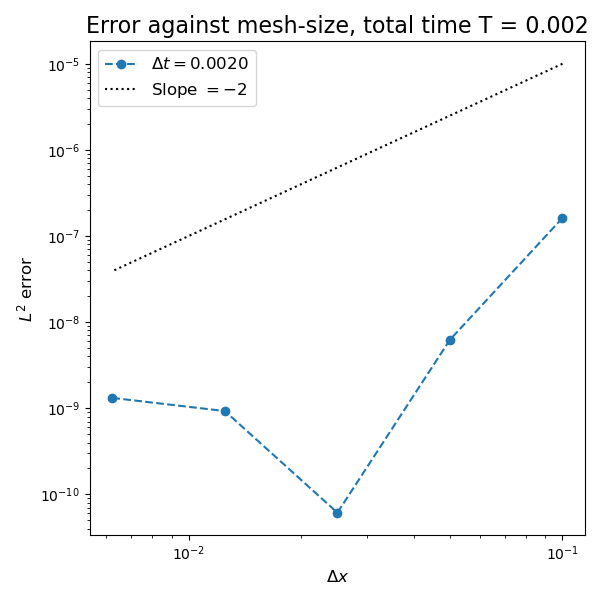
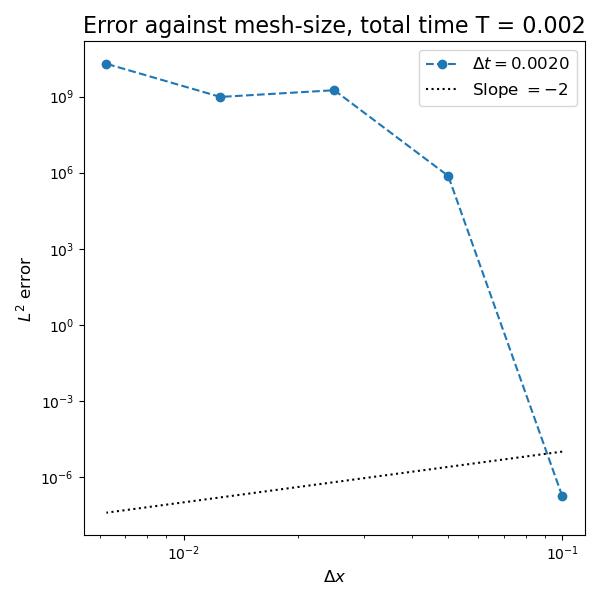
more plots

diff --git a/AI4Flood/richards_functions.py b/AI4Flood/richards_functions.py
@@ -229,11 +229,10 @@ class AIRichards(nn.Module):
 
         return ujplus, i 
     '''
-    '''
     def forward(self, uold, t, dt, imax=100):
         """Here we use a Jacobi iteration with an L method to solve richard's equation."""
-        L = 2 # lipschitz constant for L method
-        omega = 0.2 # damping parameter
+        L = 4 # lipschitz constant for L method
+        omega = 0.1 # damping parameter
         #uuold   = dirichlet_boundary_condition(uold, u_exact(self.x, self.y, t)) # apply dirichlet bc to u^n-1
 
         uj = uold.clone()
@@ -258,9 +257,11 @@ class AIRichards(nn.Module):
 
                 D = torch.diagonal(A, dim1=2, dim2=3)
 
-                uiplus.data.copy_(ui.data  + omega * (b - A)) # Jacobi iteration
+                uiplus.data.copy_(ui.data  + omega * (b - A) / D) # Jacobi iteration
+                uiplus = apply_zero_bcs(uiplus)
                 print(f"Error is {torch.sqrt(torch.mean((uiplus - ui)**2))}")
-
+                
+                assert torch.isinf(torch.sqrt(torch.mean((uiplus - ui)**2))) == False
                 assert torch.isnan(torch.sqrt(torch.mean((uiplus - ui)**2))) == False
 
                 if torch.sqrt(torch.mean((uiplus - ui)**2)) <= 1e-12:
@@ -288,7 +289,6 @@ class AIRichards(nn.Module):
         return uiplus
     
     '''
-    
     def forward(self, uold, t, dt, imax=100):
         """Simple explicit scheme"""
         L = 2 # lipschitz constant for L method
@@ -309,48 +309,8 @@ class AIRichards(nn.Module):
         #plot_tensor(self.x[1:-1, 1:-1], self.y[1:-1, 1:-1], u_new[0][0], "boundary condition 2 ")
 
         return apply_zero_bcs(u_new)
-    
-    '''
-    def forward(self, uold, t, dt, imax=100):
-        """Here we use a Jacobi iteration with an L method to solve richard's equation."""
-        L = 2 # lipschitz constant for L method
-        omega = 0.5 # damping parameter
-        uuold   = dirichlet_boundary_condition(uold, u_exact(self.x, self.y, t)) # apply dirichlet bc to u^n-1
-
-        uj = uold.clone()
-
-        bc_new = u_exact(self.x, self.y, t + dt)
-
-        for j in range(imax):
-
-            uuj = dirichlet_boundary_condition(uj, bc_new)
-            #uiplus = torch.zeros_like(uj, device=device) # set up jacobi iteration
-            #ui = uj.clone()
-
-            # Right hand side of Jacobi iteration - fixed
-            b = L * uj + self.cmm(theta(uuold) - theta(uuj)) 
-
-            uui = dirichlet_boundary_condition(ui, bc_new) # apply dirichlet boundary condition
-
-            div_k_grad_ui = - 0.5 * (self.diff(Kappa(uuj) * uui) + Kappa(uj) * self.diff(uui) - ui * self.diff(Kappa(uuj)))
-            A = L * ui - dt * div_k_grad_ui
-
-            uiplus = torch.linalg.solve(A, b)
-
-            if torch.sqrt(torch.mean((uiplus - uj)**2)) <= 1e-12:
-                print(f"Outer iterations converged after {j+1} iterations")
-                break
-
-            if j == imax - 1:
-                print(f"Outer iteration has not converged")
-                break
-
-            #print(f"L2 Difference between uj_plus and u_j is {self.loss(ujplus, uj)}")
-
-            uj = uiplus.clone()        
-
-        return uiplus, j     
         '''
+    
     
 class AIRichardsPC(nn.Module):
     def __init__(self, w1, wm, bias_initializer, x, y):

diff --git a/tests/richards_exp.py b/tests/richards_exp.py
@@ -57,7 +57,7 @@ def f(x, y, t):
                            - 3 * torch.sin(torch.pi * x )**2 * torch.sin(torch.pi * y )**2)
      - 1)
     
-    return f2
+    return f
 
 def f1(x, y, t):
     return (2 * torch.pi ** 2 - 1 ) * torch.exp(-t) * torch.sin(torch.pi * x) * torch.sin(torch.pi * y)
@@ -119,8 +119,6 @@ with torch.no_grad():
 plot_tensor(x_padded, y_padded, u_exact(x_padded,y_padded, T)[0,0,:,:].cpu().numpy() - u_exact(x_padded,y_padded, 0)[0,0,:,:].cpu().numpy(), "Exact_solution_error, T - t")
 
 dx = 1/(nx_array.cpu().numpy())
-
-print(L2_error)
 
 ### convergence plot ###
 print(f"L2_error is {np.array(L2_error_dx)}")

diff --git a/tests/richards_multiple.py b/tests/richards_multiple.py
@@ -89,8 +89,6 @@ plot_tensor(x_padded, y_padded, u_exact(x_padded,y_padded, T)[0,0,:,:].cpu().num
 
 dx = 1/(nx_array.cpu().numpy())
 
-print(L2_error)
-
 ### convergence plot ###
 print(f"L2_error is {np.array(L2_error_dx)}")
 fig, ax = plt.subplots(1,1, figsize=(6,6))
